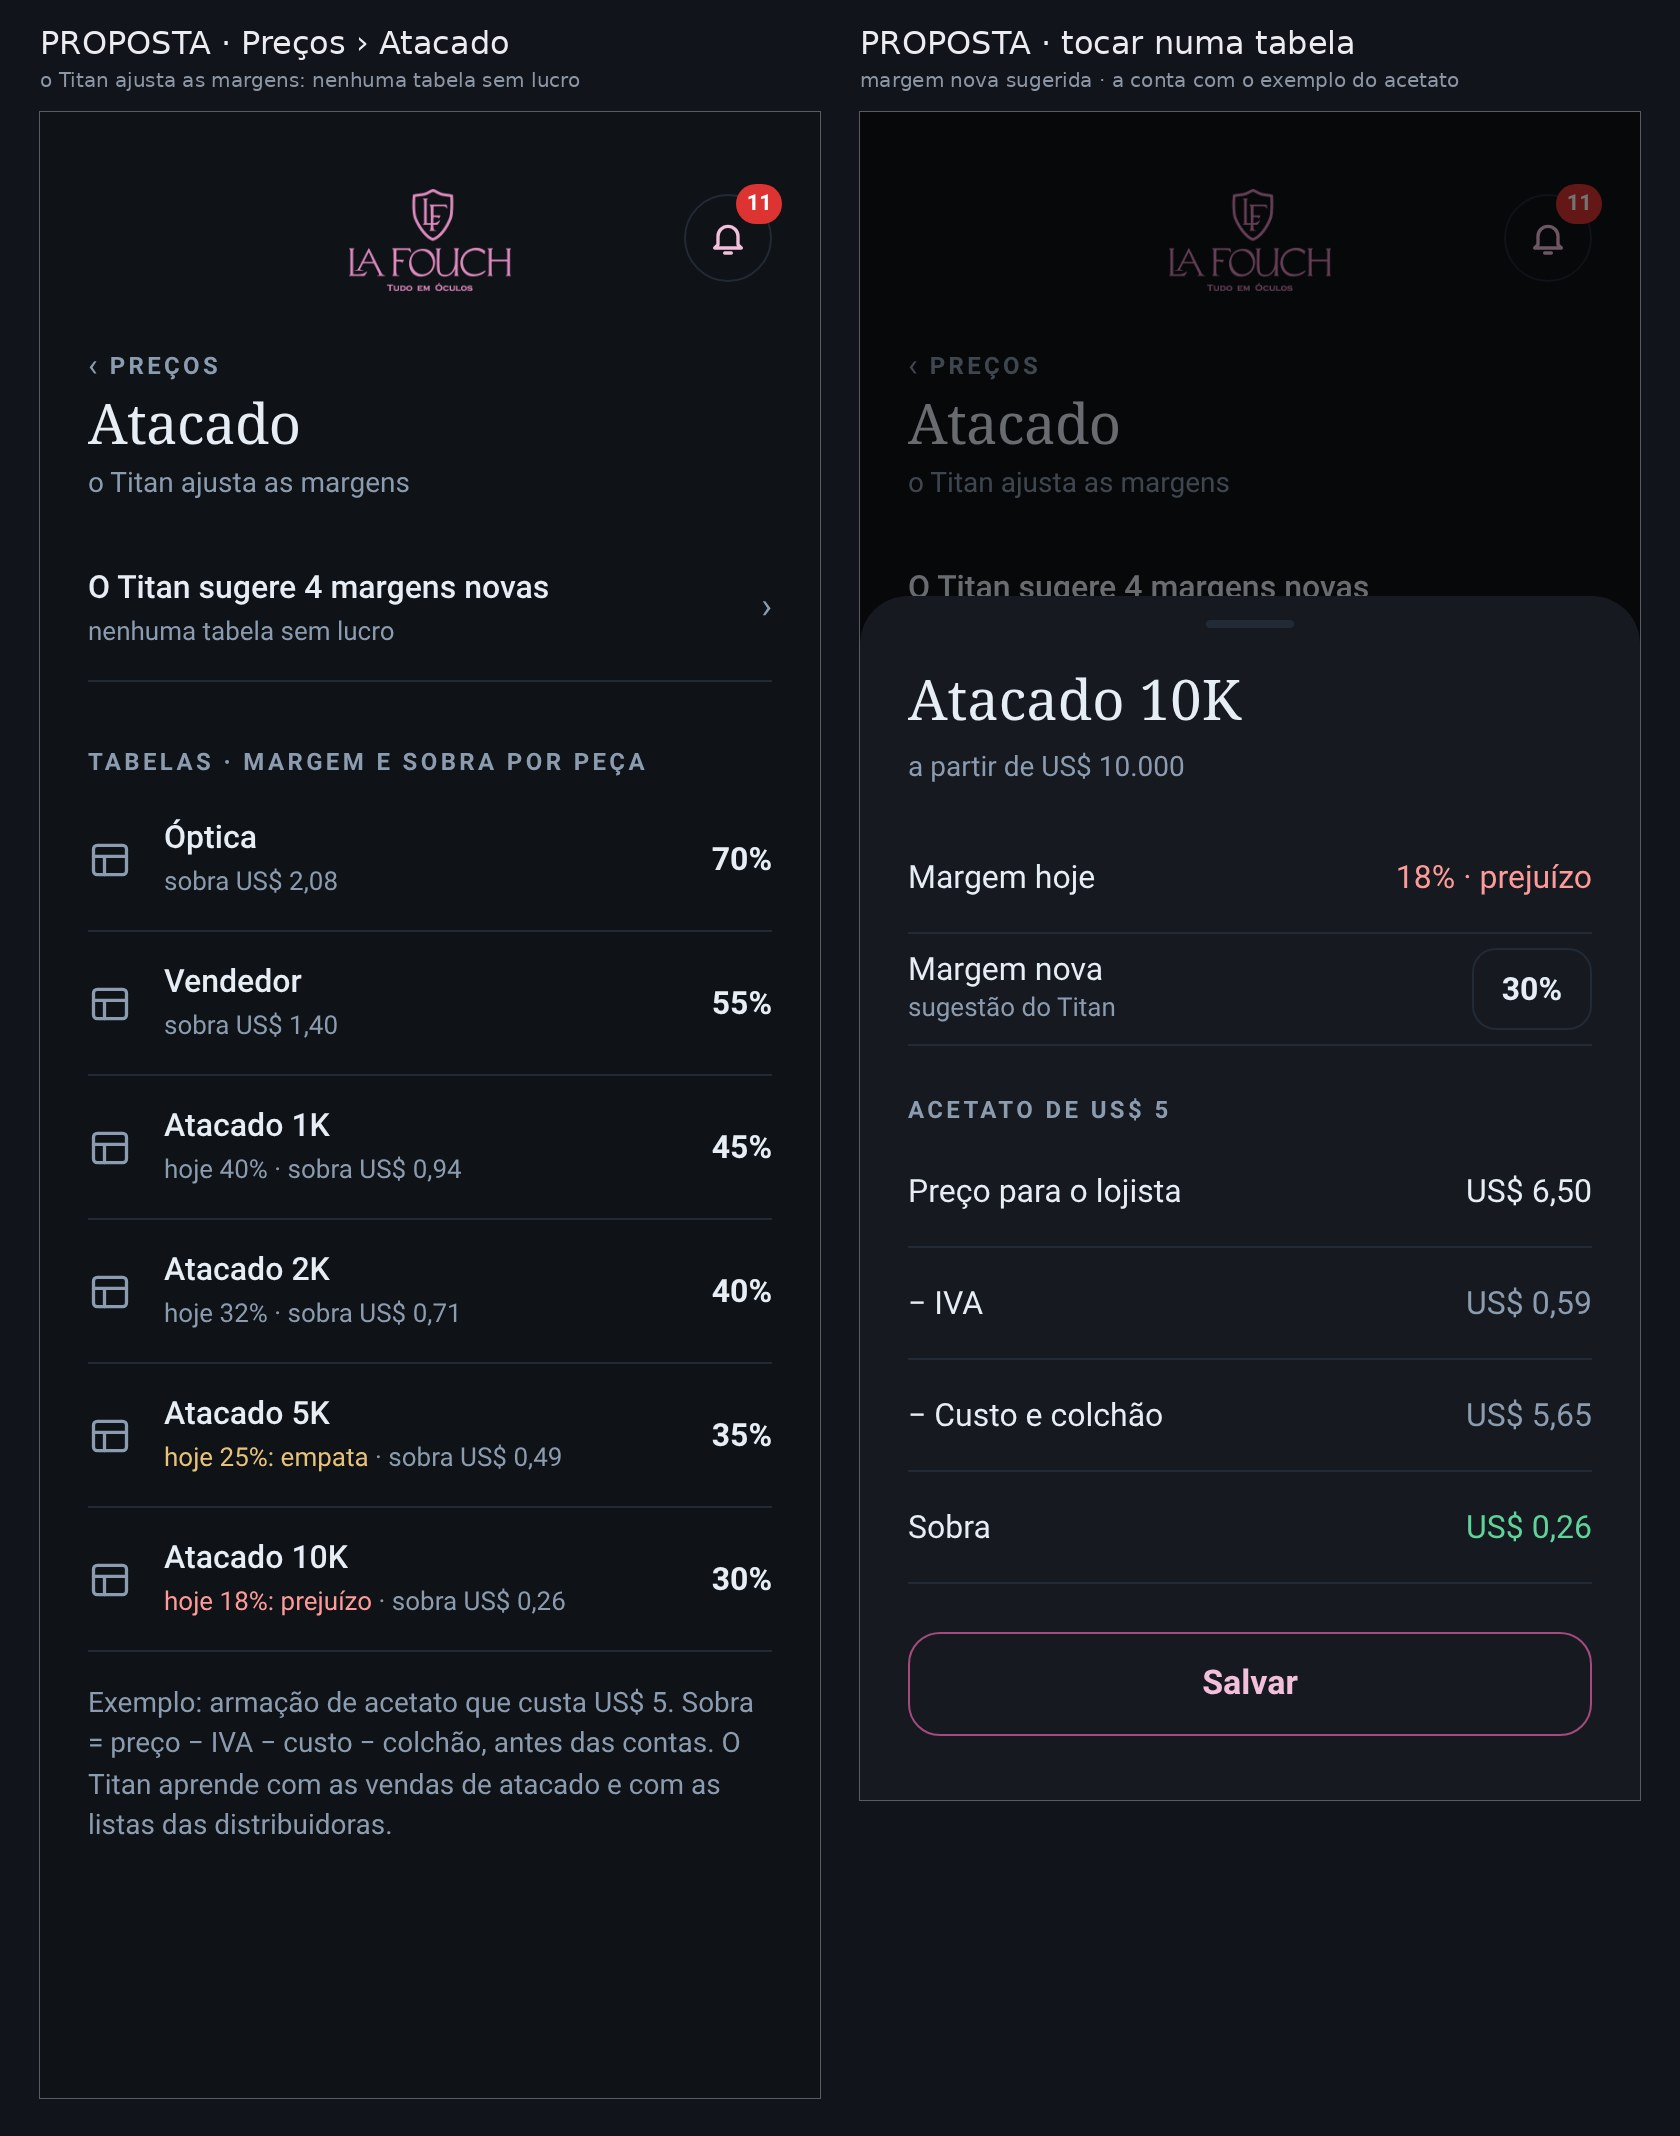
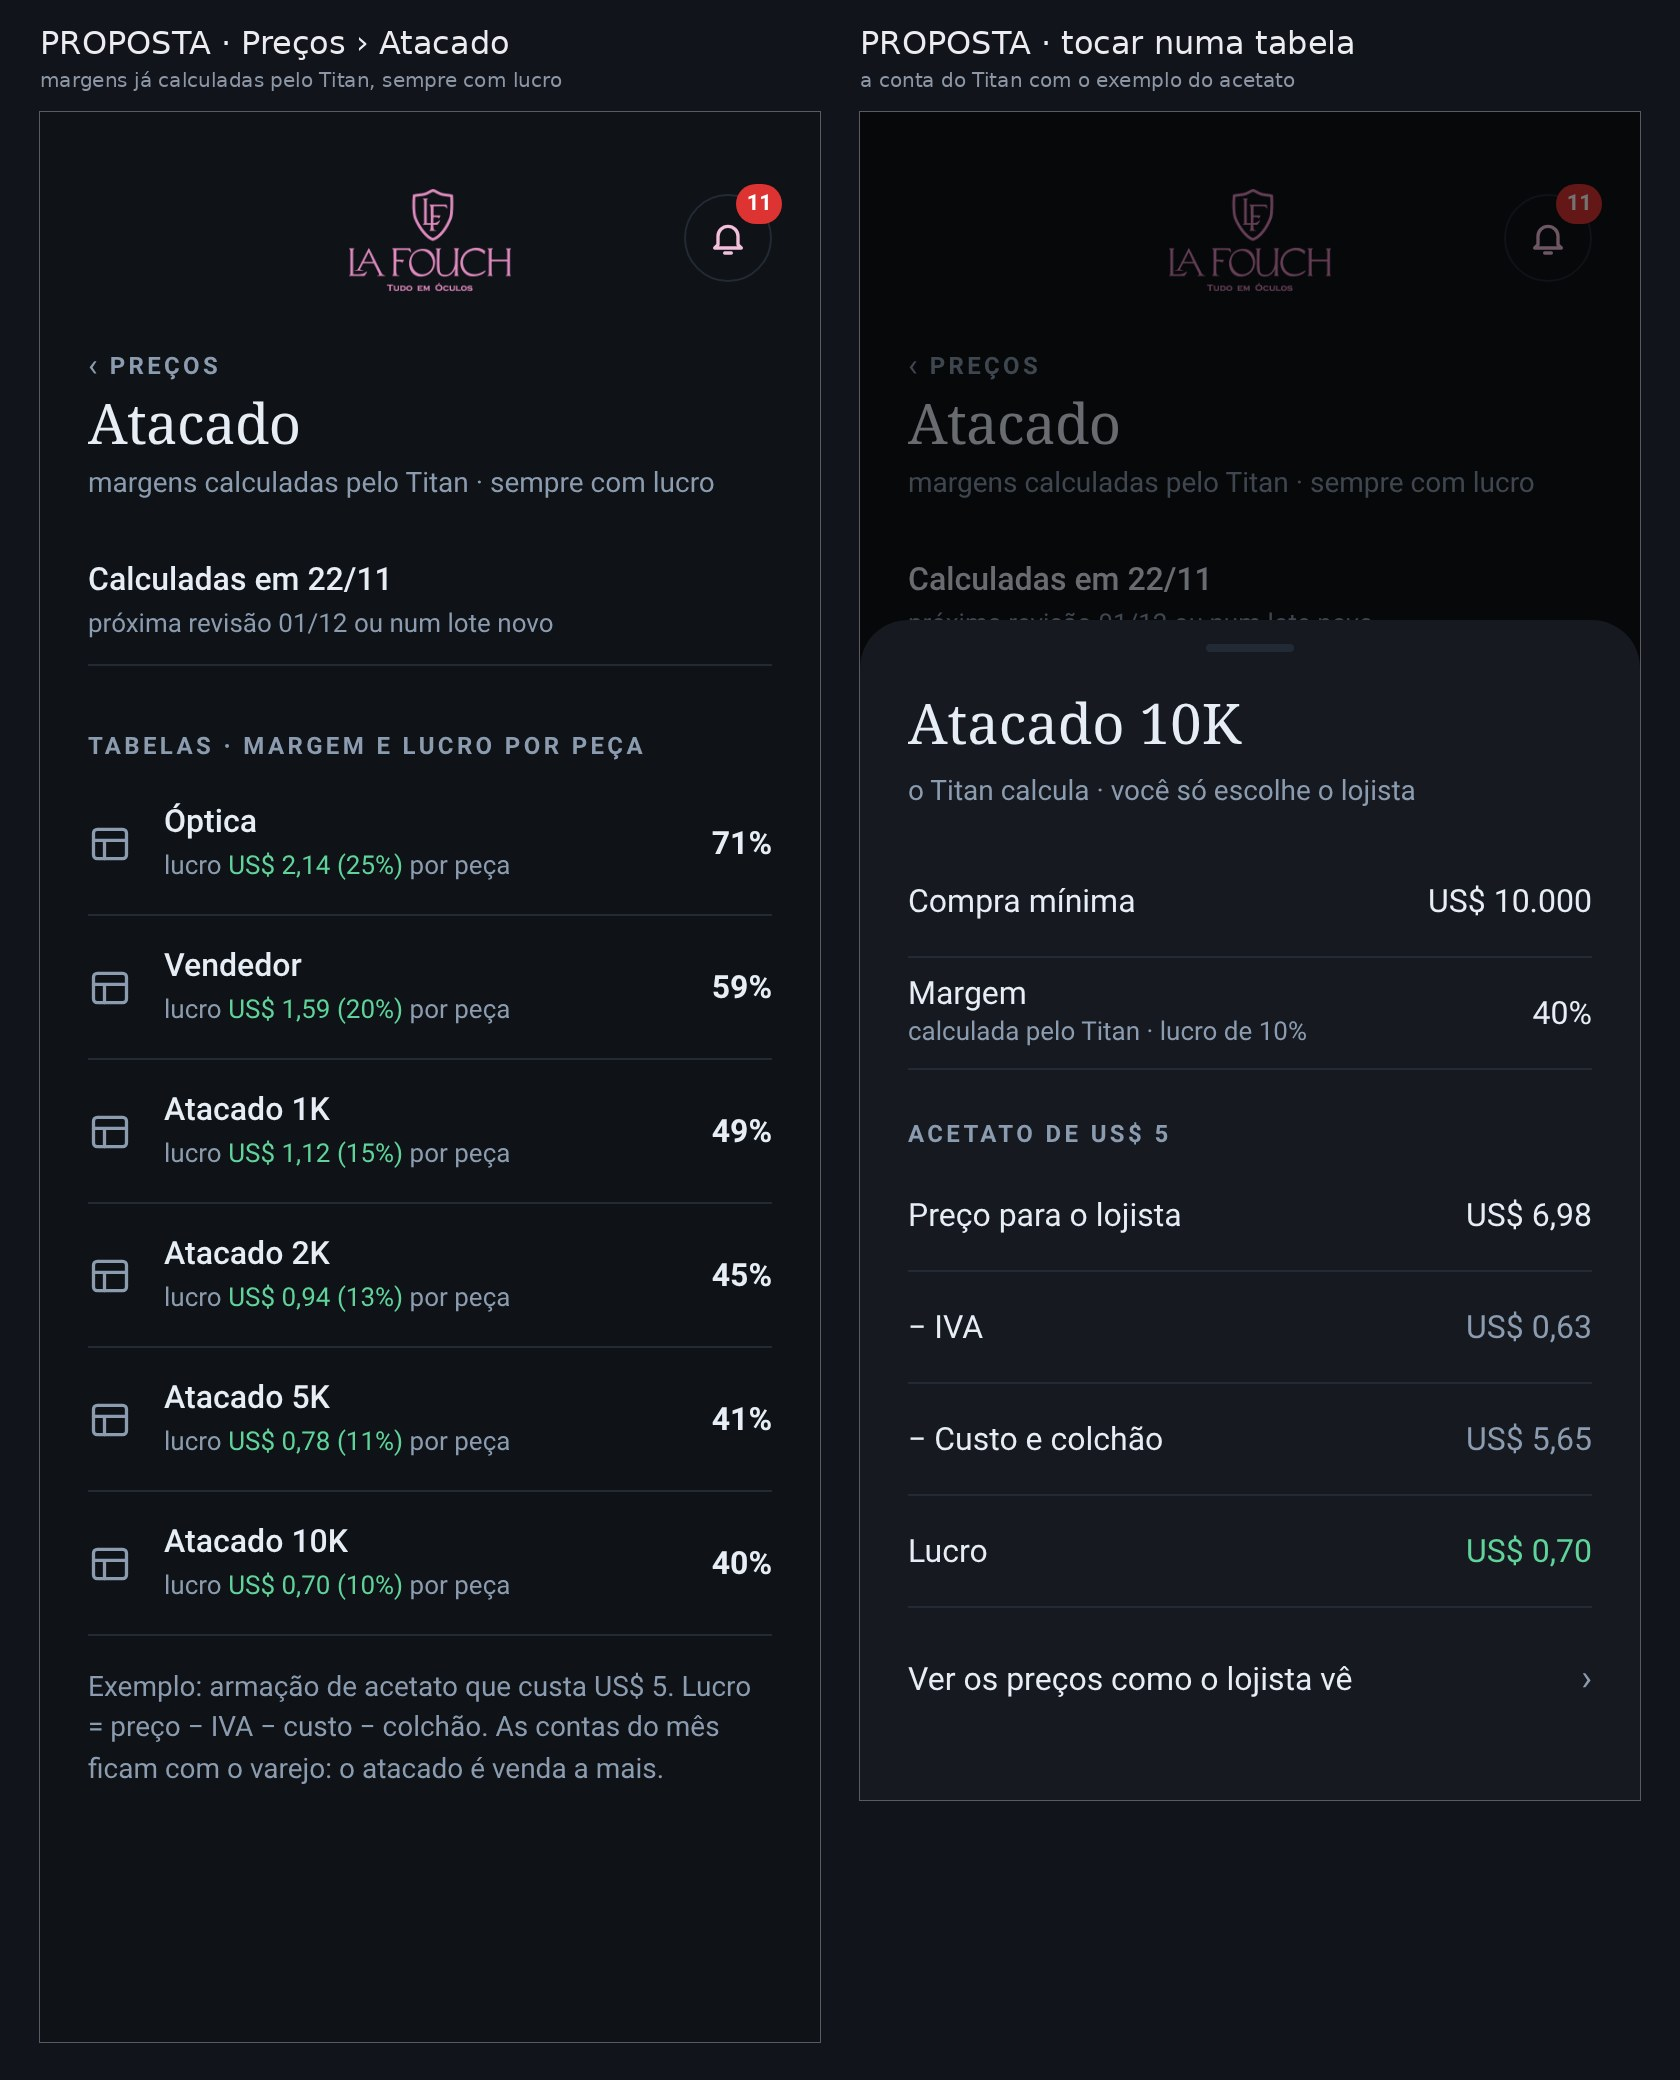
65b v2: margens de atacado calculadas pelo Titan
Claude-Session: https://claude.ai/code/session_01Vj5GPRt4UBskC3w8v52h7G

diff --git a/work/s435/titan/esboco_65b.py b/work/s435/titan/esboco_65b.py
@@ -14,32 +14,35 @@ VERM='var(--bad,#e5484d)';OKC='var(--ok,#4fbf7f)'
 # 65b (22/11 13:46): o Titan AJUSTA as margens — nenhuma tabela pode ficar sem lucro. Exemplo do dono: acetato custo US$ 5 (varejo US$ 20).
 # Conta: preço = custo × (1 + margem) · − IVA (÷ 11) · − custo · − colchão 13% = sobra (antes das contas do atacado).
 # Margens HOJE (src/96-tabelas-preco.js) × SUGESTÃO INICIAL do Titan (até ter vendas de atacado e as listas das distribuidoras).
-LIN=[('Óptica','70%','70%','US$ 2,08',0),('Vendedor','55%','55%','US$ 1,40',0),('Atacado 1K','40%','45%','US$ 0,94',0),
-     ('Atacado 2K','32%','40%','US$ 0,71',0),('Atacado 5K','25%','35%','US$ 0,49',1),('Atacado 10K','18%','30%','US$ 0,26',2)]
+# v2 (dono 13:48): as margens JÁ VÊM CALCULADAS pelo Titan para ter LUCRO (não 'sugere'). Lucro alvo por tabela (% do preço), maior
+# nas tabelas pequenas (pagam o serviço) e menor nas grandes: margem = 1,13 ÷ (10/11 − lucro) − 1. As contas do mês ficam com o varejo
+# (o atacado é venda a mais) — premissa a confirmar com o dono.
+LIN=[('Óptica','71%','US$ 2,14 (25%)'),('Vendedor','59%','US$ 1,59 (20%)'),('Atacado 1K','49%','US$ 1,12 (15%)'),
+     ('Atacado 2K','45%','US$ 0,94 (13%)'),('Atacado 5K','41%','US$ 0,78 (11%)'),('Atacado 10K','40%','US$ 0,70 (10%)')]
 def titan2(pw,janela):
   b,pg,w=ap.abre(pw,'inicio',True,'celular',base=True);w(500);pg.click('#mainnav .mn[data-id="g:pecas"]');w(900)
   pg.add_style_tag(content='#nvBar{display:none!important}#grTog,#iniTog2{visibility:hidden!important}')
   html=pg.evaluate("(L_)=>{"+H+JS4+r"""const RED='"""+VERM+r"""',OK='"""+OKC+r"""';
-   const row=(t,hoje,sug,sob,st)=>'<div style="display:flex;align-items:center;gap:16px;min-height:72px;border-bottom:1px solid var(--line2)">'+SV(I.tab)+'<span style="flex:1;min-width:0"><b style="display:block;font-size:16px;font-weight:500">'+t+'</b><small style="font-size:13px;color:var(--mute)">'+(st==2?'<span style="color:'+RED+'">hoje '+hoje+': prejuízo</span> · ':st==1?'<span style="color:var(--warn,#e0b44c)">hoje '+hoje+': empata</span> · ':(hoje!==sug?'hoje '+hoje+' · ':''))+'sobra '+sob+'</small></span><b style="font-size:16px">'+sug+'</b></div>';
-   return '<div class="e49">'+TOP('Preços','Atacado','o Titan ajusta as margens',0)+
-    '<div style="display:flex;align-items:center;gap:16px;min-height:72px;border-bottom:1px solid var(--line2);margin-top:16px"><span style="flex:1"><b style="display:block;font-size:16px;font-weight:500">O Titan sugere 4 margens novas</b><small style="font-size:13px;color:var(--mute)">nenhuma tabela sem lucro</small></span><i style="font-style:normal;color:var(--mute);font-size:18px">›</i></div>'+
-    T('Tabelas · margem e sobra por peça')+L_.map(x=>row(x[0],x[1],x[2],x[3],x[4])).join('')+
-    '<div style="color:var(--mute);font-size:14px;line-height:1.45;margin:16px 0 32px">Exemplo: armação de acetato que custa US$ 5. Sobra = preço − IVA − custo − colchão, antes das contas. O Titan aprende com as vendas de atacado e com as listas das distribuidoras.</div></div>'}""",LIN)
+   const row=(t,m,luc)=>'<div style="display:flex;align-items:center;gap:16px;min-height:72px;border-bottom:1px solid var(--line2)">'+SV(I.tab)+'<span style="flex:1;min-width:0"><b style="display:block;font-size:16px;font-weight:500">'+t+'</b><small style="font-size:13px;color:var(--mute)">lucro <span style="color:'+OK+'">'+luc+'</span> por peça</small></span><b style="font-size:16px">'+m+'</b></div>';
+   return '<div class="e49">'+TOP('Preços','Atacado','margens calculadas pelo Titan · sempre com lucro',0)+
+    '<div style="display:flex;align-items:center;gap:16px;min-height:64px;border-bottom:1px solid var(--line2);margin-top:16px"><span style="flex:1"><b style="display:block;font-size:16px;font-weight:500">Calculadas em 22/11</b><small style="font-size:13px;color:var(--mute)">próxima revisão 01/12 ou num lote novo</small></span></div>'+
+    T('Tabelas · margem e lucro por peça')+L_.map(x=>row(x[0],x[1],x[2])).join('')+
+    '<div style="color:var(--mute);font-size:14px;line-height:1.45;margin:16px 0 32px">Exemplo: armação de acetato que custa US$ 5. Lucro = preço − IVA − custo − colchão. As contas do mês ficam com o varejo: o atacado é venda a mais.</div></div>'}""",LIN)
   pagina(pg,html);w(500)
   if janela:
     pg.evaluate(r"""()=>{const Lr=(r,v,c,sub)=>'<div style="display:flex;align-items:center;justify-content:space-between;min-height:56px;border-bottom:1px solid var(--line2);font-size:16px"><span>'+r+(sub?'<small style="display:block;font-size:13px;color:var(--mute)">'+sub+'</small>':'')+'</span><span style="color:'+(c||'var(--fg)')+'">'+v+'</span></div>';
       const d=document.createElement('div');d.style.cssText='position:fixed;inset:0;z-index:9999;background:rgba(0,0,0,.55);display:flex;align-items:flex-end';
       d.innerHTML='<div style="width:100%;background:var(--panel,#1b1f27);border-radius:24px 24px 0 0;padding:12px 24px 32px;color:var(--fg)"><div style="width:44px;height:4px;border-radius:2px;background:var(--line2);margin:0 auto 16px"></div>'+
-       '<h2 style="margin:0;font-family:var(--serif,Georgia,serif);font-weight:400;font-size:28px">Atacado 10K</h2><div style="color:var(--mute);font-size:14px;margin:4px 0 16px">a partir de US$ 10.000</div>'+
-       Lr('Margem hoje','18% · prejuízo','var(--bad,#e5484d)')+
-       '<div style="display:flex;align-items:center;justify-content:space-between;min-height:56px;border-bottom:1px solid var(--line2);font-size:16px"><span>Margem nova<small style="display:block;font-size:13px;color:var(--mute)">sugestão do Titan</small></span><span style="border:1px solid var(--line2);border-radius:12px;padding:8px 14px;font-weight:600">30%</span></div>'+
+       '<h2 style="margin:0;font-family:var(--serif,Georgia,serif);font-weight:400;font-size:28px">Atacado 10K</h2><div style="color:var(--mute);font-size:14px;margin:4px 0 16px">o Titan calcula · você só escolhe o lojista</div>'+
+       Lr('Compra mínima','US$ 10.000')+
+       Lr('Margem','40%','var(--fg)','calculada pelo Titan · lucro de 10%')+
        '<div style="font-size:12px;font-weight:700;letter-spacing:.14em;text-transform:uppercase;color:var(--mute);margin:24px 0 4px">Acetato de US$ 5</div>'+
-       Lr('Preço para o lojista','US$ 6,50')+Lr('− IVA','US$ 0,59','var(--mute)')+Lr('− Custo e colchão','US$ 5,65','var(--mute)')+Lr('Sobra','US$ 0,26','var(--ok,#4fbf7f)')+
-       '<button type="button" style="width:100%;margin-top:24px;min-height:52px;border-radius:16px;border:1px solid var(--accent,#c06);background:none;color:var(--accent-fg,#f6b);font:600 17px system-ui">Salvar</button></div>';document.body.appendChild(d)}""");w(400)
+       Lr('Preço para o lojista','US$ 6,98')+Lr('− IVA','US$ 0,63','var(--mute)')+Lr('− Custo e colchão','US$ 5,65','var(--mute)')+Lr('Lucro','US$ 0,70','var(--ok,#4fbf7f)')+
+       '<div style="display:flex;align-items:center;justify-content:space-between;min-height:56px;font-size:16px;margin-top:8px"><span>Ver os preços como o lojista vê</span><i style="font-style:normal;color:var(--mute);font-size:18px">›</i></div></div>';document.body.appendChild(d)}""");w(400)
   else: pg.add_style_tag(content='#mainnav,#nvBar{display:none!important}')
   confere(pg,'Titan atacado '+('janela' if janela else 'lista'));f='/tmp/t65b_%d.png'%janela;pg.screenshot(path=f,full_page=not janela);x=Image.open(f).copy();b.close();return x
 if __name__=='__main__':
  with sync_playwright() as pw:
-  quadro('esboco_65b_margens_atacado.jpg',[('PROPOSTA · Preços › Atacado','o Titan ajusta as margens: nenhuma tabela sem lucro',titan2(pw,False)),
-    ('PROPOSTA · tocar numa tabela','margem nova sugerida · a conta com o exemplo do acetato',titan2(pw,True))])
+  quadro('esboco_65b_margens_atacado.jpg',[('PROPOSTA · Preços › Atacado','margens já calculadas pelo Titan, sempre com lucro',titan2(pw,False)),
+    ('PROPOSTA · tocar numa tabela','a conta do Titan com o exemplo do acetato',titan2(pw,True))])
  for n,f in REL: print(n,len(f),f[:4])

diff --git a/docs/FALTA-APROVAR-15-11.md b/docs/FALTA-APROVAR-15-11.md
@@ -1128,3 +1128,4 @@ Não são esquecimento (estavam na lista, parados de propósito ou por ordem do 
 - 22/11 13:41 · DONO CORRIGIU o item 3: a conversão pela cotação do DIA vale SÓ PARA O ATACADO (tabelas, lotes, catálogo do lojista). O VAREJO é diferente: preço em guarani estável, com a cotação nos preços travada e a mola (aprovado 06:41–06:52).
 - 22/11 13:45 · ESBOCO: tabela de estudo do atacado (em work/s435/titan/ESTUDO-ATACADO-22-11.md): com IVA (preço ÷ 11) e colchão 13%, as margens de hoje dão sobra de 24% (Óptica) a PREJUÍZO no 10K (−US$ 0,29 num acetato de US$ 5); margem sobre custo distorce peça barata (leitura US$ 0,59–0,85 no atacado × US$ 4 no varejo); alternativa: atacado = fração do VAREJO (ex. 55/45/35%), nunca abaixo do chão; falta a referência das listas das distribuidoras.
 - 22/11 13:55 · ESBOCO: esboço 65b enviado — o Titan AJUSTA as margens de atacado ('não dá para não lucrar'): Preços › Atacado mostra 'O Titan sugere 4 margens novas ›' e cada tabela com a margem sugerida e a sobra por peça (exemplo acetato US$ 5): Óptica 70% · Vendedor 55% · 1K 40→45% · 2K 32→40% · 5K 25→35% (hoje empata) · 10K 18→30% (hoje prejuízo), sobras US$ 2,08…0,26; tocar numa tabela = janela com margem hoje × margem nova e a conta (preço, IVA, custo e colchão, sobra) + Salvar. Sugestões = ponto de partida até ter vendas de atacado e listas das distribuidoras.
+- 22/11 13:55 · DONO: 'não entendeu' — o Titan tem de CALCULAR as margens de atacado (já ajustadas), sem 'sugere' nem 'hoje × nova'. 65b v2: Preços › Atacado 'margens calculadas pelo Titan · sempre com lucro' · 'Calculadas em 22/11 · próxima revisão 01/12 ou num lote novo' · tabelas com a margem e o LUCRO por peça (acetato US$ 5): Óptica 71% US$ 2,14 (25%) · Vendedor 59% US$ 1,59 (20%) · 1K 49% US$ 1,12 (15%) · 2K 45% US$ 0,94 (13%) · 5K 41% US$ 0,78 (11%) · 10K 40% US$ 0,70 (10%); conta: margem = 1,13 ÷ (10/11 − lucro alvo) − 1. Janela: compra mínima, margem (lucro alvo), conta com IVA/custo e colchão/lucro, 'Ver os preços como o lojista vê ›'. PREMISSA a confirmar: as contas do mês ficam com o varejo (o atacado é venda a mais). v1 em obsoletos.

diff --git a/docs/MEMORIA-PROJETO.md b/docs/MEMORIA-PROJETO.md
@@ -3630,3 +3630,4 @@ Testar TUDO, com muita calma, antes de dizer que está pronto ou de publicar: ca
 - 22/11 13:41 · DONO CORRIGIU o item 3: a conversão pela cotação do DIA vale SÓ PARA O ATACADO (tabelas, lotes, catálogo do lojista). O VAREJO é diferente: preço em guarani estável, com a cotação nos preços travada e a mola (aprovado 06:41–06:52).
 - 22/11 13:45 · ESBOCO: tabela de estudo do atacado (em work/s435/titan/ESTUDO-ATACADO-22-11.md): com IVA (preço ÷ 11) e colchão 13%, as margens de hoje dão sobra de 24% (Óptica) a PREJUÍZO no 10K (−US$ 0,29 num acetato de US$ 5); margem sobre custo distorce peça barata (leitura US$ 0,59–0,85 no atacado × US$ 4 no varejo); alternativa: atacado = fração do VAREJO (ex. 55/45/35%), nunca abaixo do chão; falta a referência das listas das distribuidoras.
 - 22/11 13:55 · ESBOCO: esboço 65b enviado — o Titan AJUSTA as margens de atacado ('não dá para não lucrar'): Preços › Atacado mostra 'O Titan sugere 4 margens novas ›' e cada tabela com a margem sugerida e a sobra por peça (exemplo acetato US$ 5): Óptica 70% · Vendedor 55% · 1K 40→45% · 2K 32→40% · 5K 25→35% (hoje empata) · 10K 18→30% (hoje prejuízo), sobras US$ 2,08…0,26; tocar numa tabela = janela com margem hoje × margem nova e a conta (preço, IVA, custo e colchão, sobra) + Salvar. Sugestões = ponto de partida até ter vendas de atacado e listas das distribuidoras.
+- 22/11 13:55 · DONO: 'não entendeu' — o Titan tem de CALCULAR as margens de atacado (já ajustadas), sem 'sugere' nem 'hoje × nova'. 65b v2: Preços › Atacado 'margens calculadas pelo Titan · sempre com lucro' · 'Calculadas em 22/11 · próxima revisão 01/12 ou num lote novo' · tabelas com a margem e o LUCRO por peça (acetato US$ 5): Óptica 71% US$ 2,14 (25%) · Vendedor 59% US$ 1,59 (20%) · 1K 49% US$ 1,12 (15%) · 2K 45% US$ 0,94 (13%) · 5K 41% US$ 0,78 (11%) · 10K 40% US$ 0,70 (10%); conta: margem = 1,13 ÷ (10/11 − lucro alvo) − 1. Janela: compra mínima, margem (lucro alvo), conta com IVA/custo e colchão/lucro, 'Ver os preços como o lojista vê ›'. PREMISSA a confirmar: as contas do mês ficam com o varejo (o atacado é venda a mais). v1 em obsoletos.

diff --git a/work/obsoletos/s435-superados-22-11/LEIA.md b/work/obsoletos/s435-superados-22-11/LEIA.md
@@ -1,2 +1,3 @@
 # Superados em 22/11 (S435)
 - esboco_58b_v1.jpg → 58b v2 (Avaliações virou tela própria no 58c; Segurança e Conta eram do painel web, que sai — dono 06:13).
+- esboco_65b_v1.jpg → 65b v2 (dono 13:48: as margens já vêm CALCULADAS pelo Titan, com lucro; sem 'sugere' nem 'hoje × nova').
